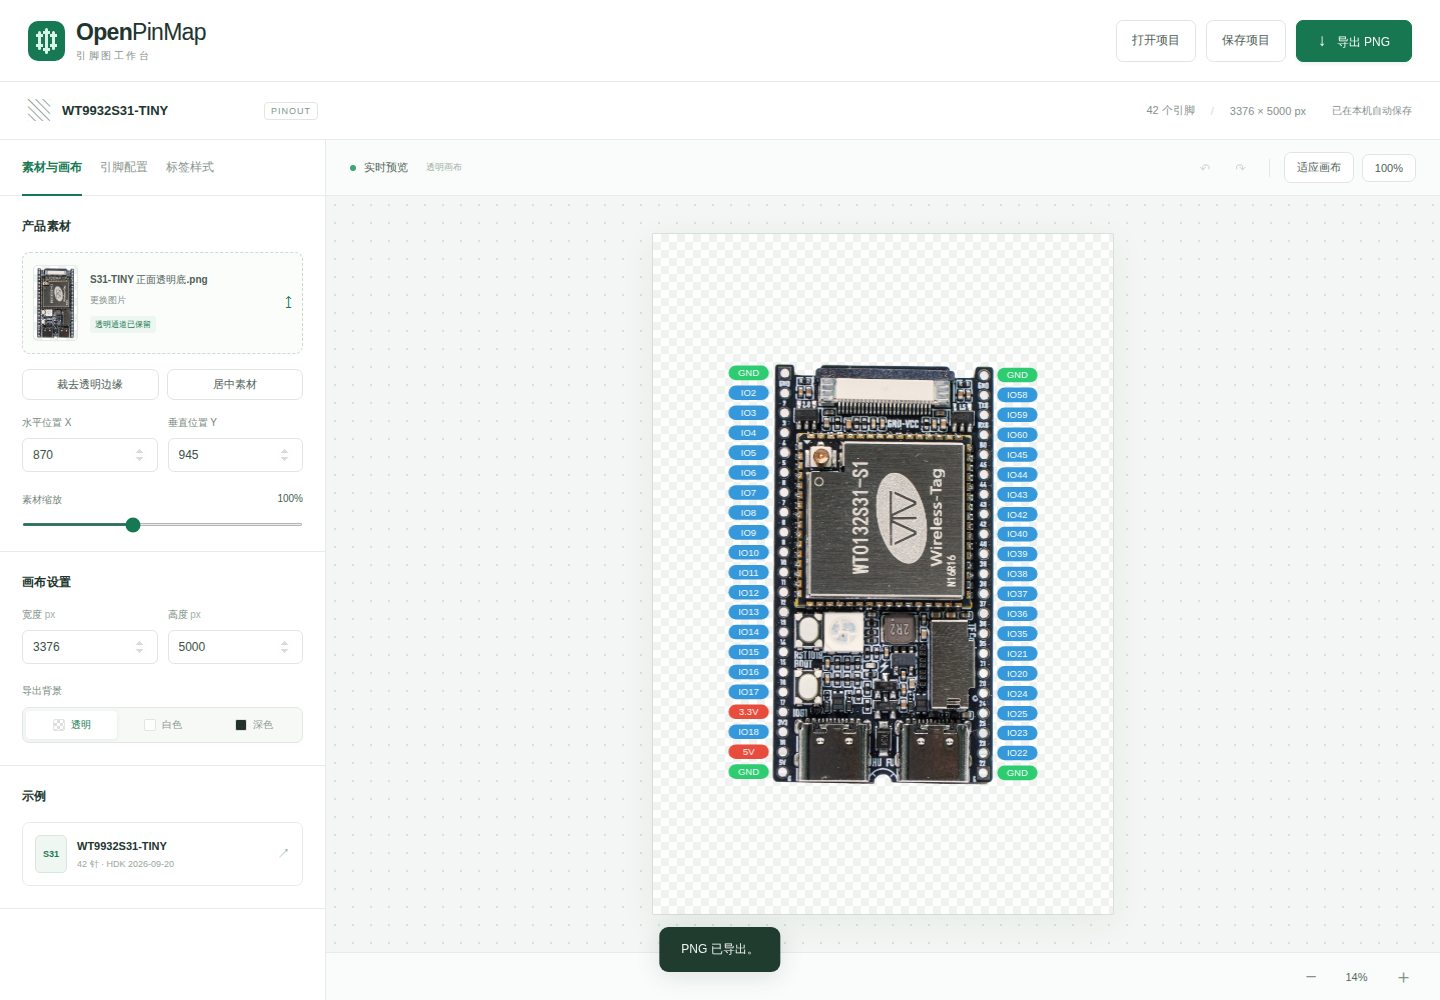
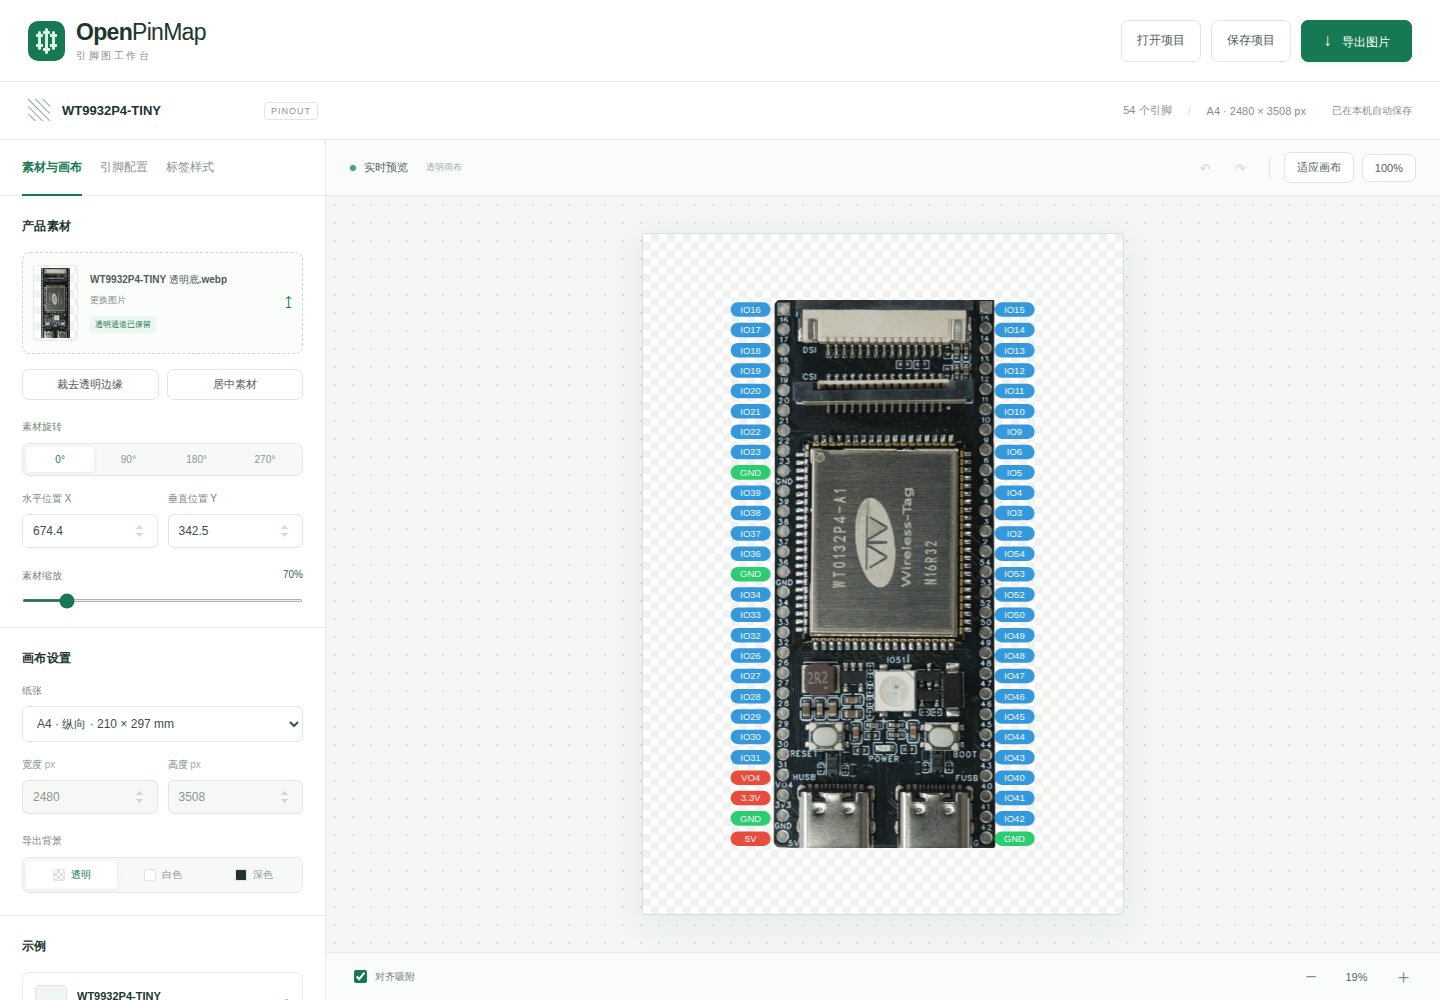
docs: explain v1.1.0 editor workflow with verified screenshots

diff --git a/README.md b/README.md
@@ -15,11 +15,11 @@
   <p><code>实时预览</code> &nbsp; <code>透明 PNG</code> &nbsp; <code>JSON 配置</code> &nbsp; <code>纯前端</code></p>
 </div>
 
-![OpenPinMap v1.0 工作台](docs/images/overview.png)
+![OpenPinMap v1.1 工作台](docs/images/overview.png)
 
 上传开发板的正面产品图，设置两侧引脚名称、颜色与间距，拖动标签对齐焊孔，再导出可用于手册或产品页的引脚图。
 
-默认使用 **WT9932P4-TINY** 透明底产品图与 54 个引脚，按用户提供的 P4 参考配置排版。S31 HDK 示例仍保存在 `examples/s31.json`。图片与引脚来源见[素材说明](docs/assets.md)。界面只保留编辑控件，说明集中在本文档。
+默认使用 **WT9932P4-TINY** 透明底产品图与 54 个引脚，按用户提供的 P4 参考配置排版。S31 HDK 示例仍保存在 `examples/s31.json`。图片与引脚来源见[素材说明](docs/assets.md)。
 
 ## 可以做什么
 
@@ -40,12 +40,31 @@
 
 ## 从图片到引脚图
 
-1. 在“素材与画布”更换产品图片。透明底 PNG / WebP 更适合排版；照片本身有白底时，选择透明画布不会自动抠图。
-2. 在“引脚配置”选中分组，填写每针名称与颜色；批量编辑支持每行一个名称。
-3. 点击素材或 PIN 组，用四角手柄等比缩放，拖动移动。PIN 组上下中点可单独调整针脚间距；“对齐到”可选择素材、画布或另一组。对照照片和实际工程核验顺序。
-4. 在“标签样式”修改字号、圆角和配色，点击“导出图片”，选择格式、输出尺寸和质量，再点击“下载文件”或“另存为…”。
+### 1. 放入素材，调整画布
 
-显示名称、连接器针号与 GPIO 编号是不同字段。P4 默认示例按参考图正面观察、USB 朝下排版，保留配置中的 IO9、IO6、VO4 等原始名称。通用编辑器不会验证新开发板的电气连接。
+![素材选中、缩放与旋转](docs/images/material-controls.png)
+
+点击开发板图片，绿色外框表示素材已选中。拖动图片移动位置，拖动四角等比缩放；左侧可输入 X/Y、选择 **0° / 90° / 180° / 270°** 旋转。旋转时保留素材中心位置。
+
+画布默认 A4 纵向，可切换横向或自定义尺寸。鼠标滚轮和触控板捏合缩放画布，空白处拖动或空格加拖动平移。透明底 PNG / WebP 更适合排版；选择透明画布不会自动去掉照片自身的白底。
+
+### 2. 编辑与对齐整组 PIN
+
+![PIN 分组、缩放手柄与对齐控件](docs/images/pin-group-controls.png)
+
+点击任意标签选中整组 PIN，拖动移动整组；四角手柄同时缩放文字、标签和间距，上下中点手柄只调整针脚间距。左侧可以修改名称、颜色、起点和缩放比例，支持批量编辑与反转顺序。
+
+“对齐到”选择产品素材、画布或另一组 PIN，再点击顶端、居中或底端。开启画布下方的“对齐吸附”后，拖动接近边缘或中心时会吸附，并显示参考线。
+
+显示名称、连接器针号与 GPIO 编号是不同字段。P4 示例按正面观察、USB 朝下排版，保留配置中的 IO9、IO6、VO4 等原始名称。请对照实际工程核验顺序，通用编辑器不会验证新开发板的电气连接。
+
+### 3. 选择格式并导出
+
+![图片格式、输出尺寸、质量与实际文件大小](docs/images/export-settings.png)
+
+点击右上角“导出图片”打开设置窗口。示例选择 **JPG、50% 输出尺寸、90% 图片质量**；左侧预览导出外观，下方显示实际像素尺寸和文件大小。调整设置后等待预览完成，再点击“下载文件”或“另存为…”。
+
+需要继续编辑时，用“保存项目”下载 JSON；素材、旋转角度、PIN 分组变换和导出设置都会保留。
 
 ## 导出质量与压缩
 

diff --git a/docs/deployment.md b/docs/deployment.md
@@ -24,8 +24,8 @@ npm run build
 npx playwright install chromium
 npm run test:e2e
 
-git tag v1.0.1
-git push origin v1.0.1
+git tag -a v1.1.1 -m "OpenPinMap v1.1.1"
+git push origin main v1.1.1
 gh run list --workflow pages.yml
 gh run watch <run-id> --exit-status
 ```
